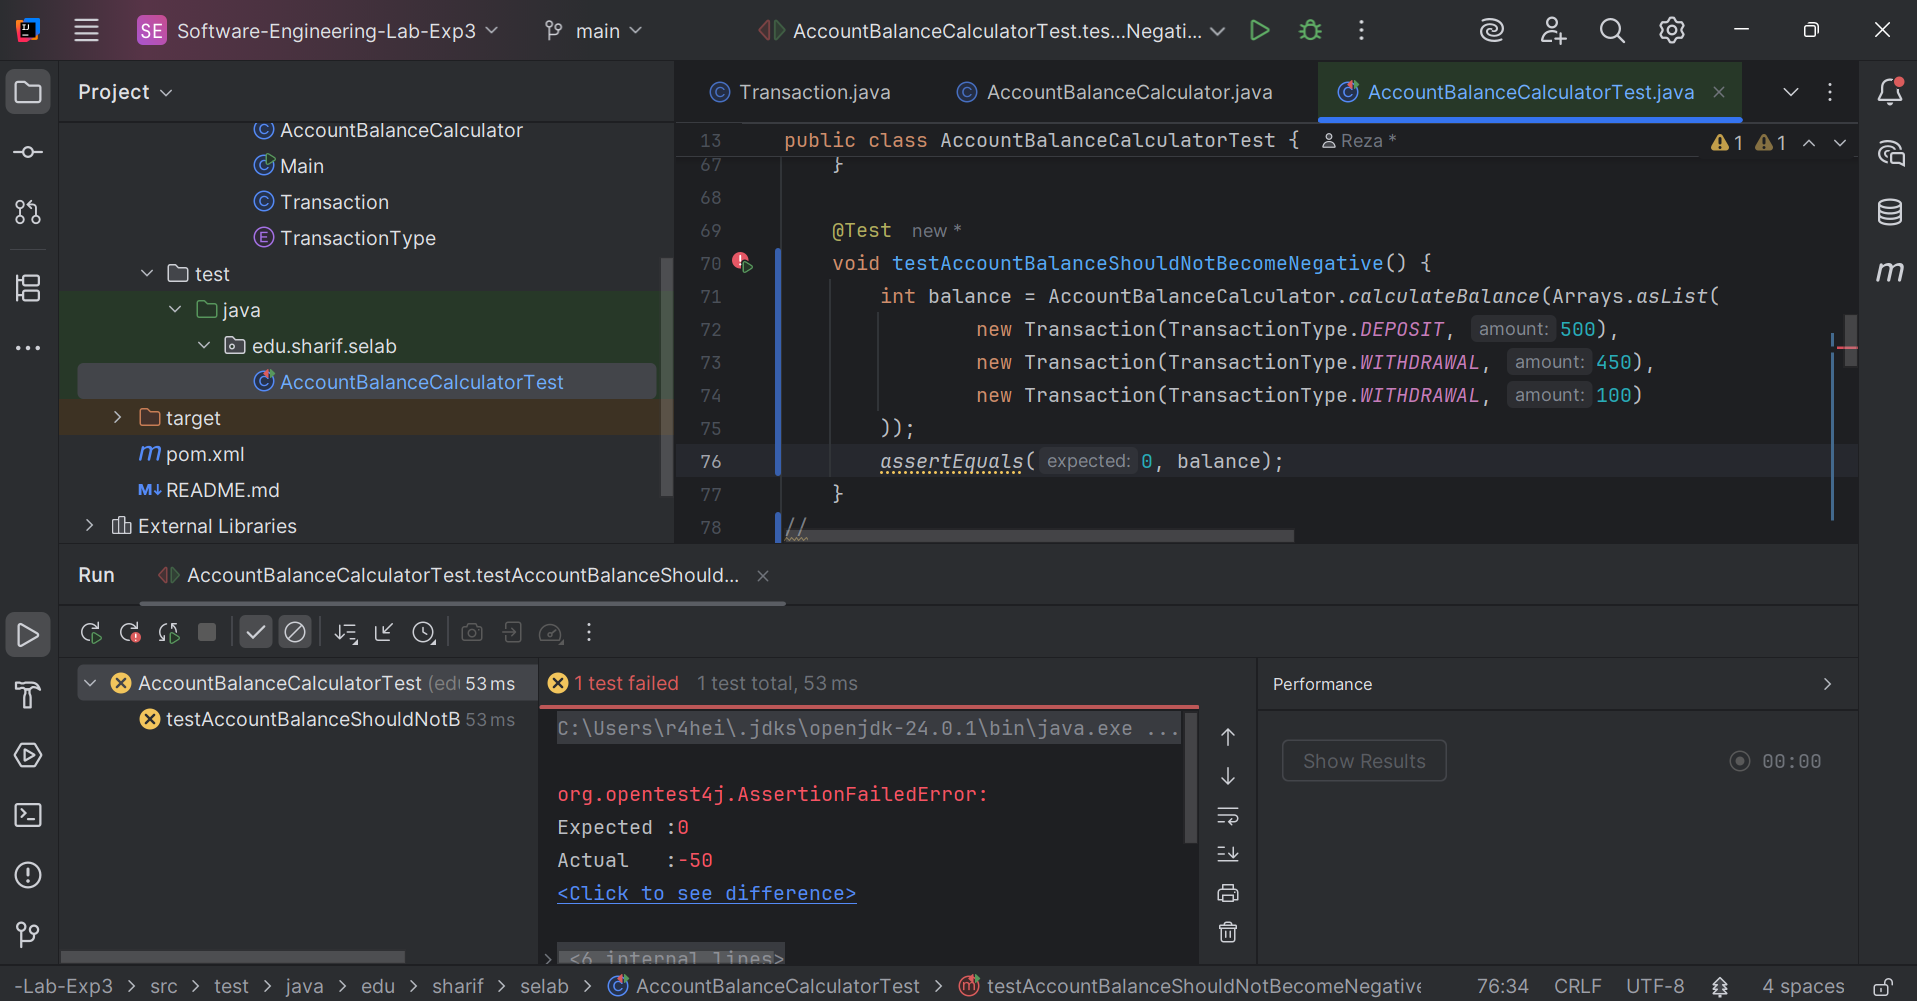
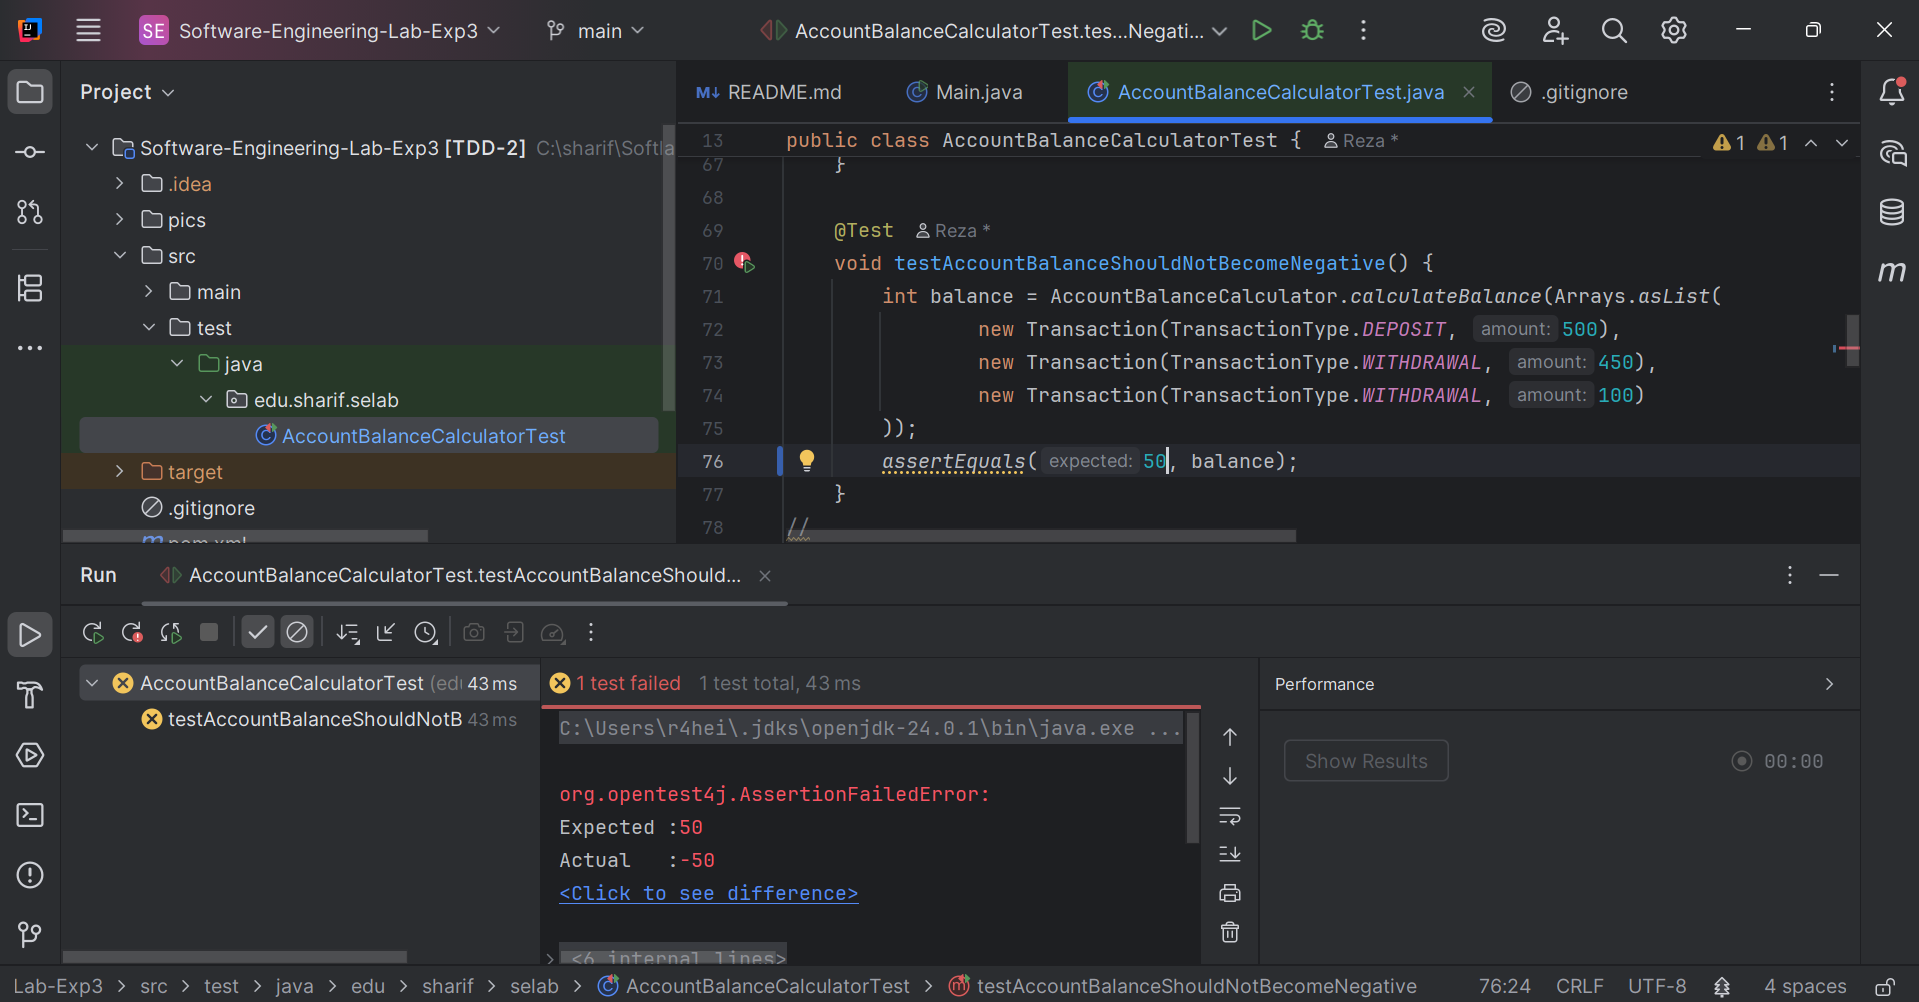
Test for Part 1 Updated

diff --git a/src/test/java/edu/sharif/selab/AccountBalanceCalculatorTest.java b/src/test/java/edu/sharif/selab/AccountBalanceCalculatorTest.java
@@ -73,7 +73,7 @@ public class AccountBalanceCalculatorTest {
                 new Transaction(TransactionType.WITHDRAWAL, 450),
                 new Transaction(TransactionType.WITHDRAWAL, 100)
         ));
-        assertEquals(0, balance);
+        assertEquals(50, balance);
     }
 //
 //    @Test
